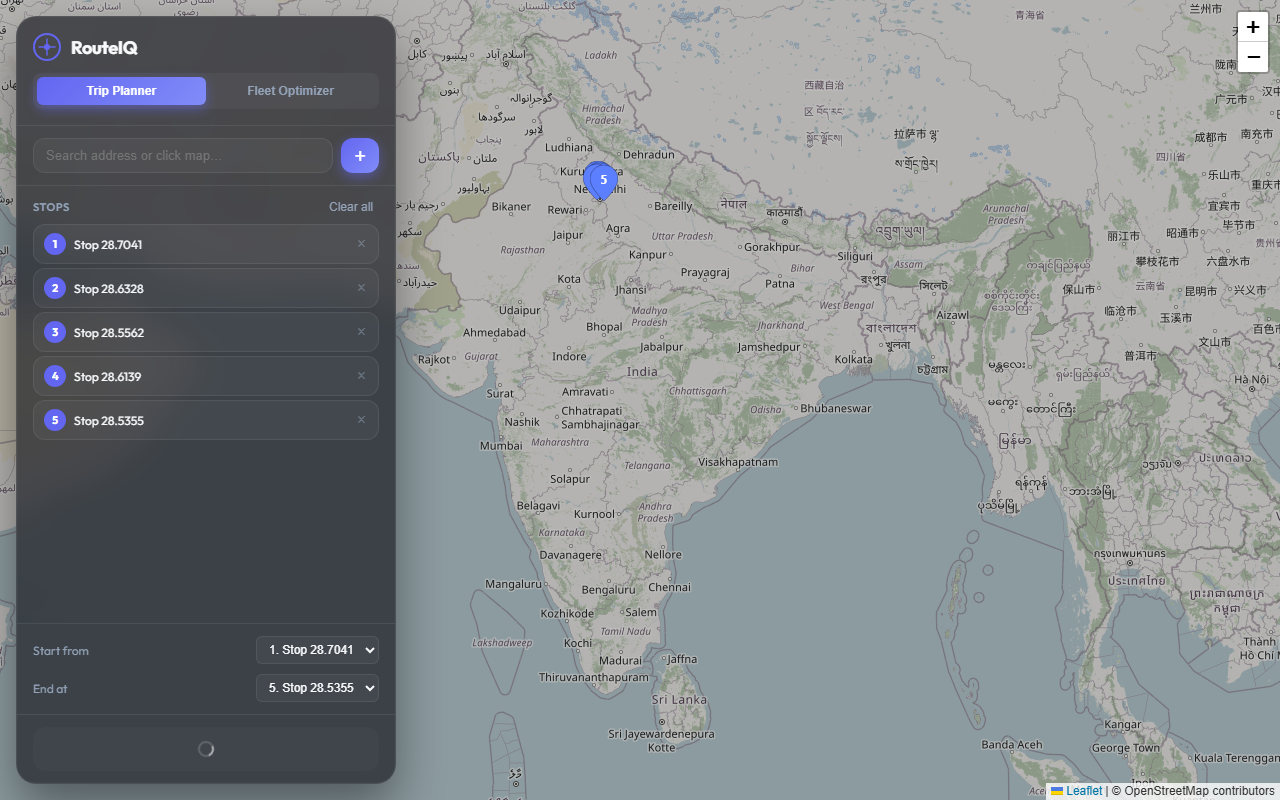
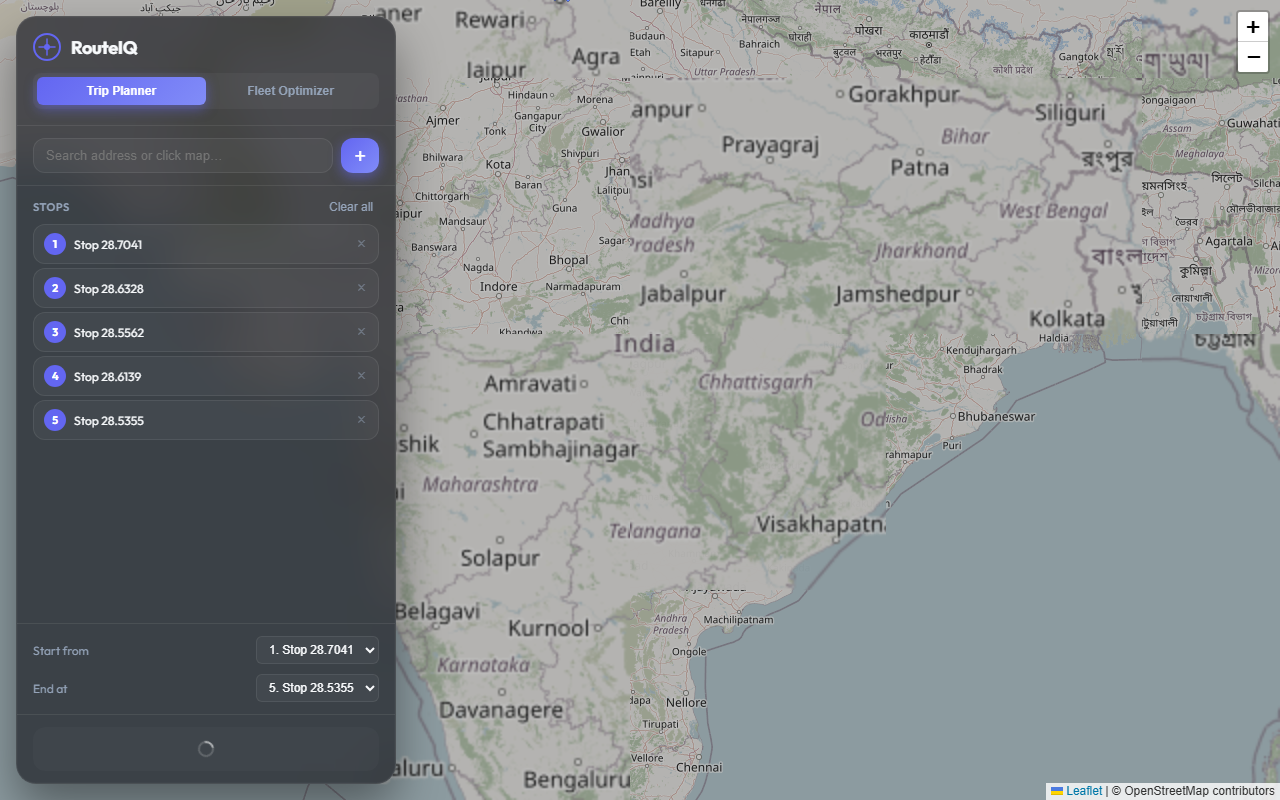
feat: add map zoom and pan adjustments to screenshot capture logic and include updated demo images

diff --git a/take_screenshots.py b/take_screenshots.py
@@ -29,6 +29,10 @@ async def run():
         await page.evaluate("runOptimize()")
         await asyncio.sleep(3) # Wait for results to render
         
+        # Zoom in and pan to offset the sidebar
+        await page.evaluate("map.zoomIn(1); map.panBy([-150, 0])")
+        await asyncio.sleep(1)
+        
         # Take screenshot
         print("Taking Trip Planner screenshot...")
         await page.screenshot(path='docs/trip_planner_demo.png')
@@ -50,6 +54,10 @@ async def run():
         print("Optimizing fleet...")
         await page.evaluate("runOptimize()")
         await asyncio.sleep(3) # Wait for results to render
+        
+        # Zoom in and pan to offset the sidebar
+        await page.evaluate("map.zoomIn(1); map.panBy([-150, 0])")
+        await asyncio.sleep(1)
         
         print("Taking Fleet Optimizer screenshot...")
         await page.screenshot(path='docs/fleet_optimizer_demo.png')